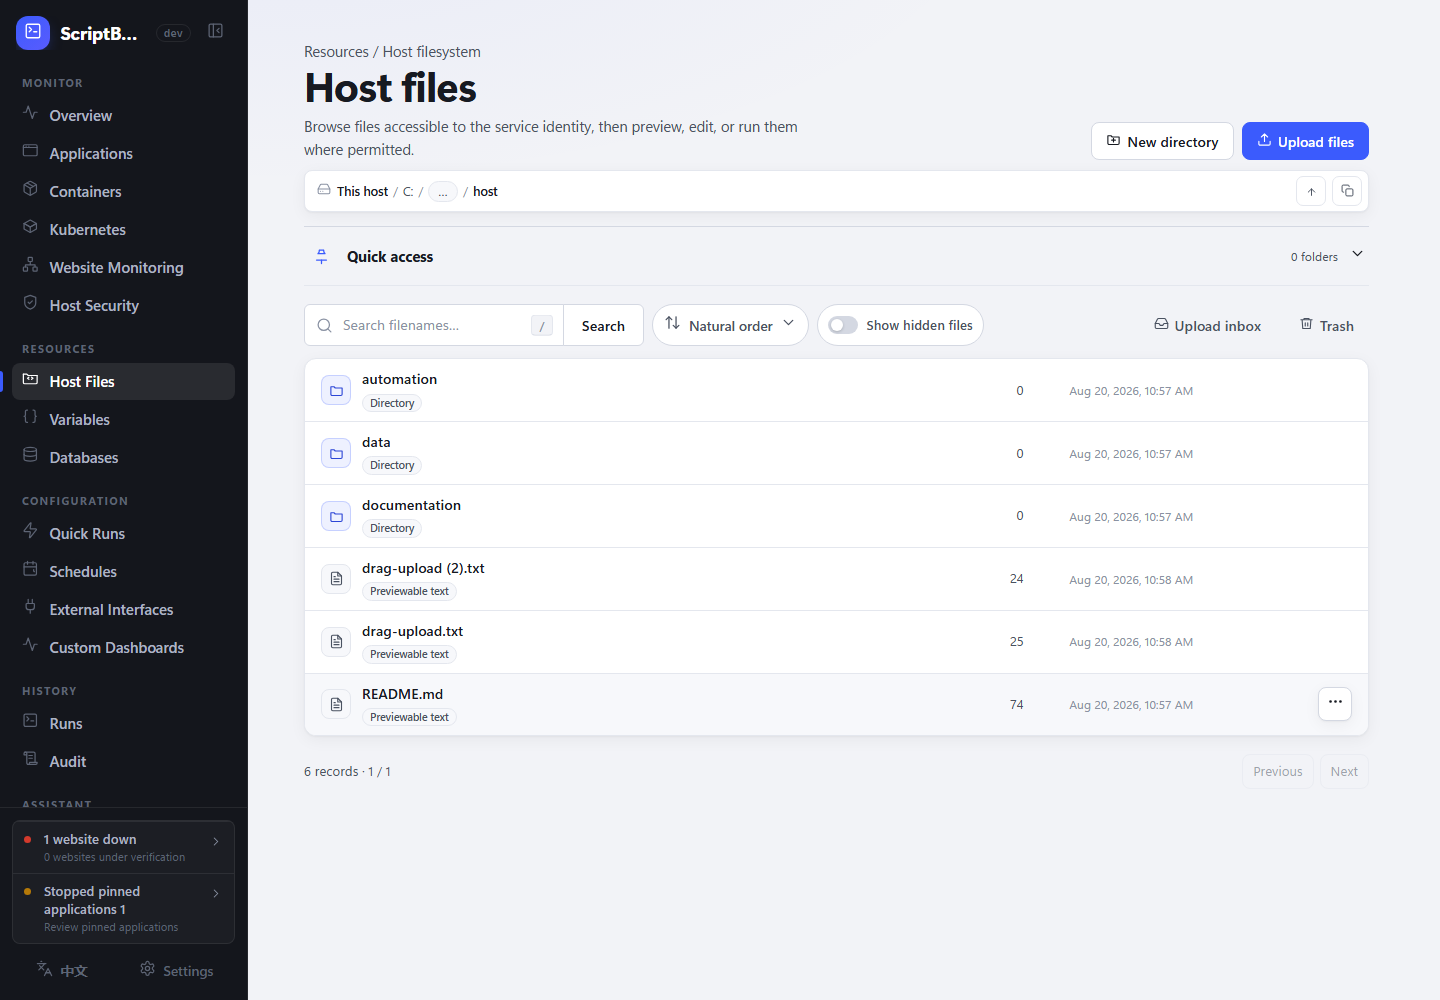
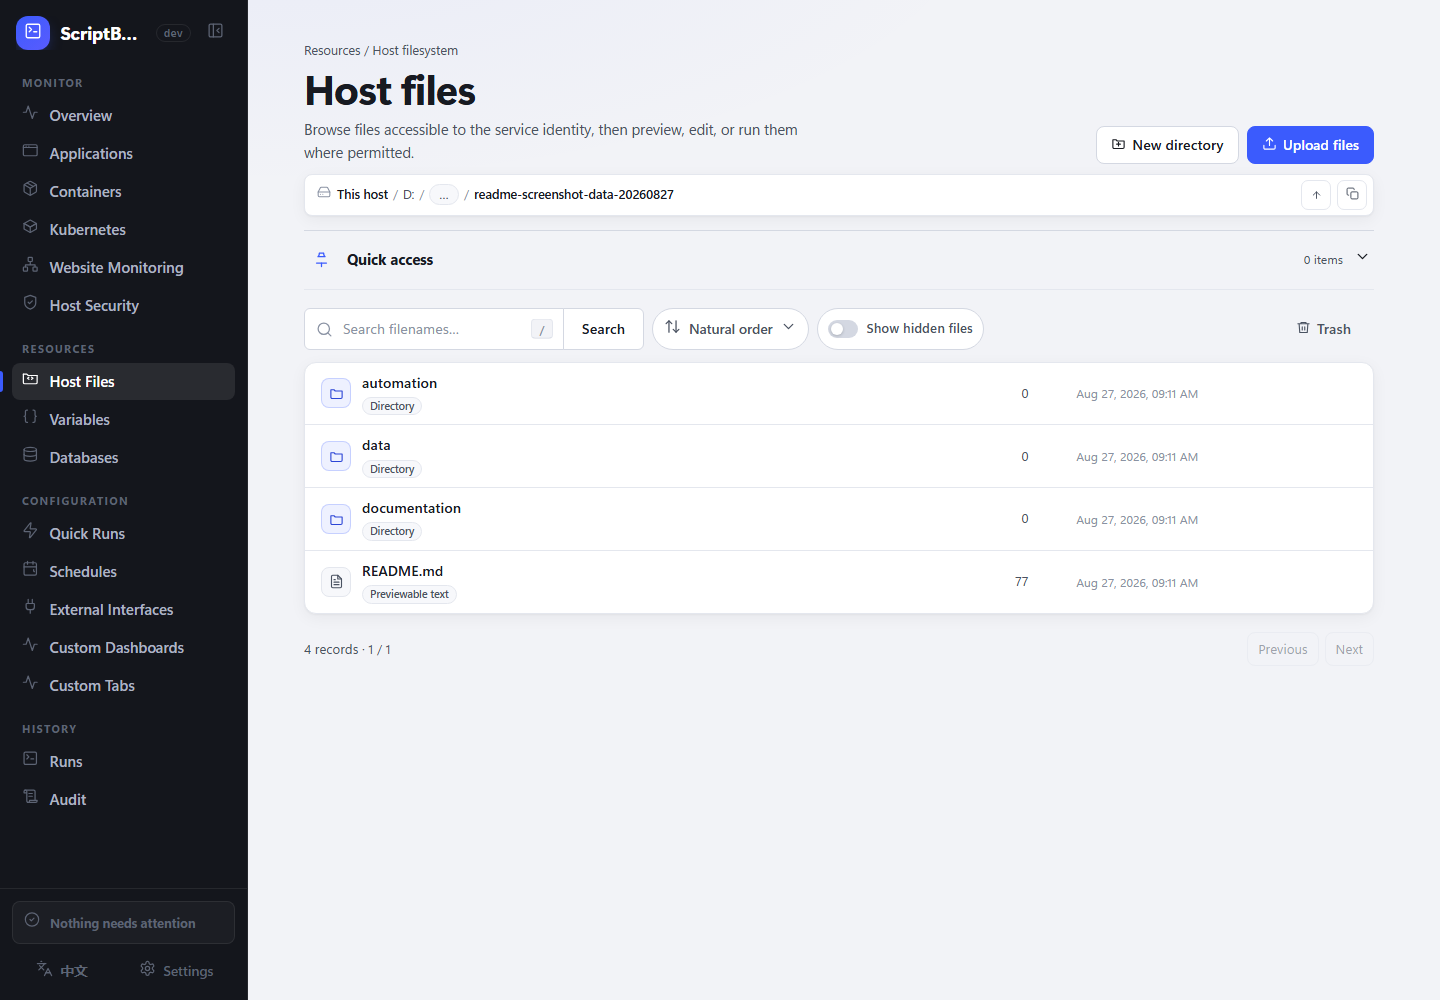
docs: prepare v2.4.3 release

diff --git a/docs/RELEASE_NOTES.md b/docs/RELEASE_NOTES.md
@@ -1,25 +1,19 @@
-# ScriptBoard v2.4.2
+# ScriptBoard v2.4.3
 
-## 数据库管理
+## 远程主机访问
 
-- MySQL 和 Redis 现在使用统一的数据库工作区，连接、数据库与数据浏览更集中。
-- 新增 MySQL 查询工作台，并支持浏览 Redis 键、类型、TTL 和内存占用。
-- 数据库写入操作增加明确确认，连接与页面跳转也更加稳定。
+- 远程 ScriptBoard 主机的状态卡新增“打开 ScriptBoard”入口，可从机器概览直接进入对应管理界面。
+- 本机状态卡继续保持本地操作边界，不显示无意义的远程打开按钮。
 
-## 任务与审批
+## Registry 监控稳定性
 
-- 快捷执行支持在分组内直接调整顺序，批量上传后保存的任务可继续正常运行。
-- 一次性执行可以基于原始脚本和参数再次运行，并提供更清晰的运行详情与操作入口。
-- 外部调用审批新增分类预览，可查看变量、日志、快捷执行和待上传文件的内容；待审批文件可先下载检查。
-- 运行日志会稳定区分普通、警告和错误行，不再因输出速度不同而合并显示。
-- 调整文件快捷访问编辑抽屉的操作层级，使页面主要操作更清晰。
+- Registry 仓库诊断现在会正确处理空仓库，不再把没有镜像的正常响应误判为失败。
+- 增强 Registry 响应兼容性和事务测试，减少不同服务实现返回内容差异导致的诊断异常。
 
-## 页面与使用体验
+## 文档与界面预览
 
-- 可添加自定义页面页签，并在首次打开时加载内容。
-- 文件和目录的固定操作保持一致，常用入口更容易整理。
-- 改进登录页、文件预览、操作菜单、图标和页面布局在桌面与移动端的显示效果。
-- 移除已停用的 AI 助手及相关设置。
+- 更新中英文 README 的机器概览、主机文件、快捷执行与数据库工作台截图。
+- README 的数据库说明与当前统一 MySQL、MariaDB 和 Redis 工作台保持一致。
 
 ## 升级
 

diff --git a/docs/test-reports/README-SCREENSHOTS-LOCAL-DEPLOYMENT-2026-08-27.md b/docs/test-reports/README-SCREENSHOTS-LOCAL-DEPLOYMENT-2026-08-27.md
@@ -1,0 +1,31 @@
+# README 截图本地部署验收（2026-08-27）
+
+结论：**通过**。当前 `dev` 源码已重新构建并部署，使用仓库安装的 Playwright Chromium 从外部浏览器完成中英文 README 页面复验与 6 张截图更新；所有目标路由返回 HTTP 200，浏览器控制台错误和页面异常均为 0。
+
+## 测试条目
+
+| 条目 | 结果 |
+| --- | --- |
+| 登录页基础访问 | 通过，HTTP 200 |
+| 管理员登录 | 通过；凭据从隔离部署密码文件读取，未写入报告 |
+| 英文机器概览 | 通过，HTTP 200 |
+| 英文主机文件 | 通过，HTTP 200 |
+| 英文快捷执行 | 通过，HTTP 200 |
+| 中文机器概览 | 通过，HTTP 200 |
+| 中文主机文件 | 通过，HTTP 200 |
+| 中文 Redis 数据库工作台 | 通过，HTTP 200 |
+| README 图片链接 | 通过，引用的图片均存在 |
+| 截图尺寸 | 通过，6 张图片均为 1440 × 1000 PNG |
+| 浏览器控制台与页面异常 | 通过，均为 0 |
+| Markdown 差异检查 | 通过，`git diff --check` 无错误 |
+
+## 部署与留存
+
+- 访问地址：`http://127.0.0.1:18790`
+- 运行进程：`scriptboard-readme-current.exe`，PID `29276`
+- State Root：`.scratch/readme-screenshots-20260827/state`
+- 初始密码文件：`.scratch/readme-screenshots-20260827/state/secrets/initial-admin-password`
+- Playwright 验证结果：`.scratch/readme-screenshots-20260827/verification-result.json`
+- 演示文件：`.scratch/readme-screenshot-data-20260827/`
+
+部署、State Root、管理员凭据、快捷执行演示数据、浏览器结果和截图均保留；报告生成后未停止进程或清理测试数据。原有 `127.0.0.1:18789` 部署未被改写。
